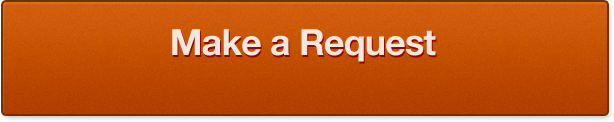
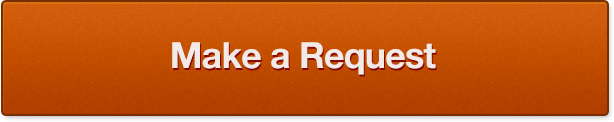
updated make a request button. updated default states of items in make a request screen

Changed region(s): [[0.2785, 0.2213, 0.7117, 0.6393]]

diff --git a/MobMonkey/MobMonkey/MMMakeRequestViewController.m b/MobMonkey/MobMonkey/MMMakeRequestViewController.m
@@ -45,12 +45,12 @@
     
     //Defualt to photo request
     videoSelected = NO;
-    //set default duration to 15 minutes
-    selectedDuration = [NSNumber numberWithInt:15];
-    [fifteenMinButton setImage:[UIImage imageNamed:@"timeBtnSelected"] forState:UIControlStateNormal];
-    [segmentOneLabel setTextColor:[UIColor whiteColor]];
+    //set default duration to 30 minutes
+    selectedDuration = [NSNumber numberWithInt:30];
+    [thirtyMinButton setImage:[UIImage imageNamed:@"timeBtnSelected"] forState:UIControlStateNormal];
+    [segmentTwoLabel setTextColor:[UIColor whiteColor]];
     
-    [photoButton setImage:[UIImage imageNamed:@"redPictureBtnDeselected"] forState:UIControlStateNormal];
+    [photoButton setImage:[UIImage imageNamed:@"redPictureBtnSelected"] forState:UIControlStateNormal];
     [videoButton setImage:[UIImage imageNamed:@"redVideoBtnDeselected"] forState:UIControlStateNormal];
 }
 
